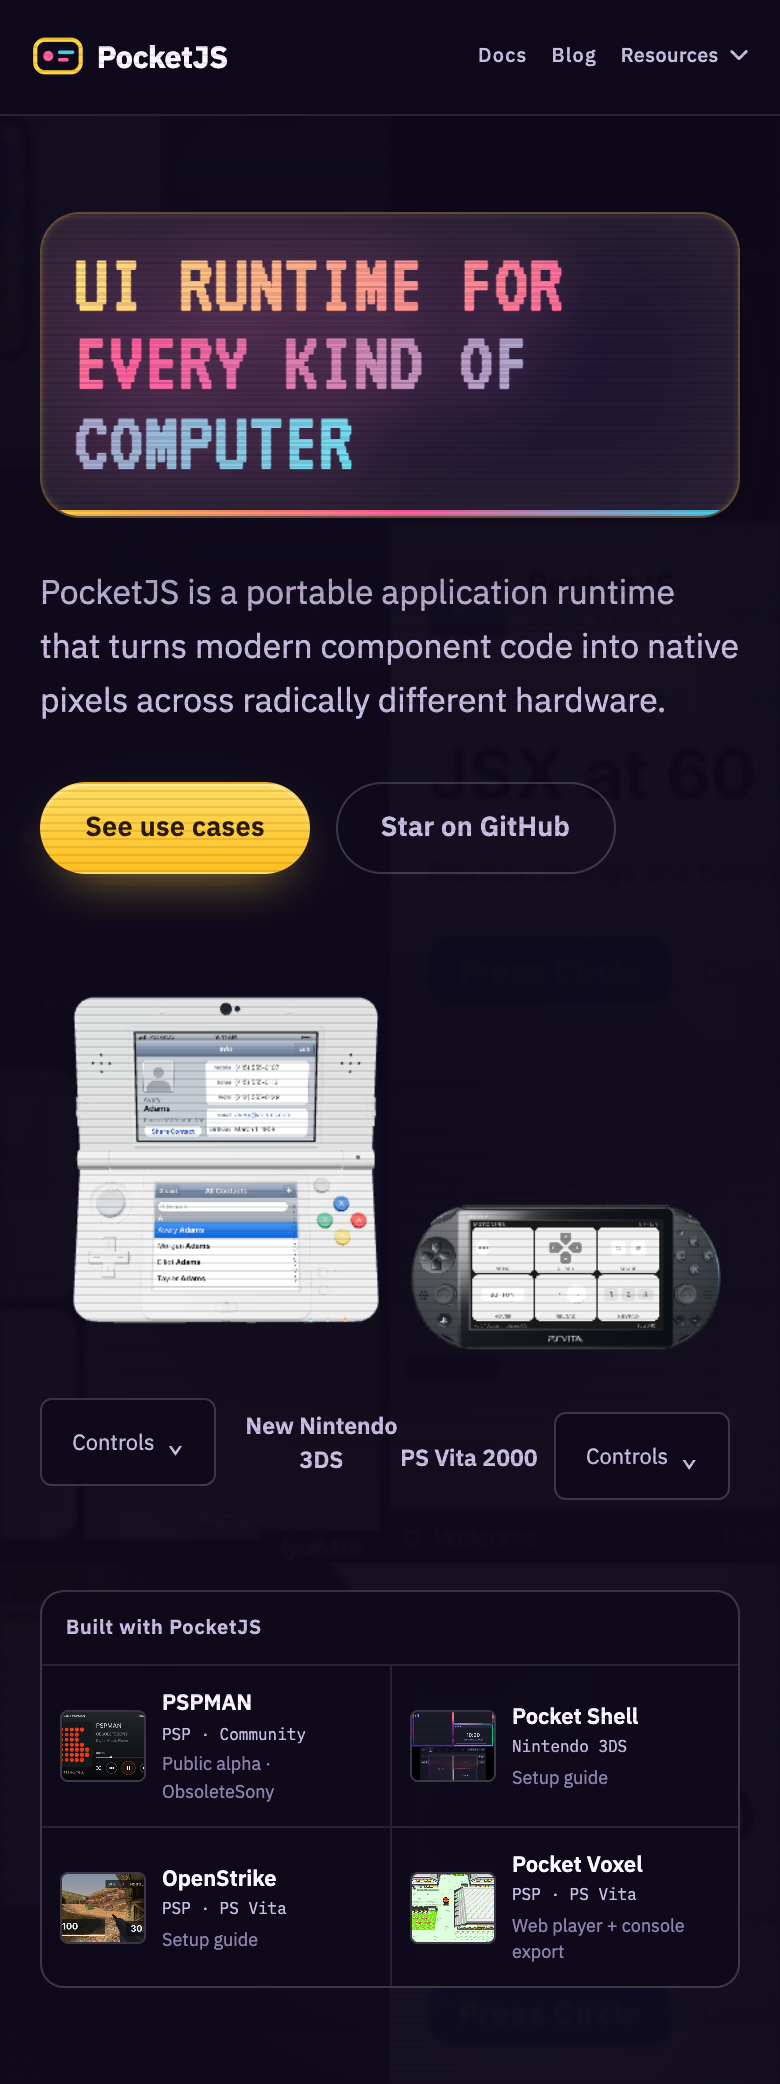
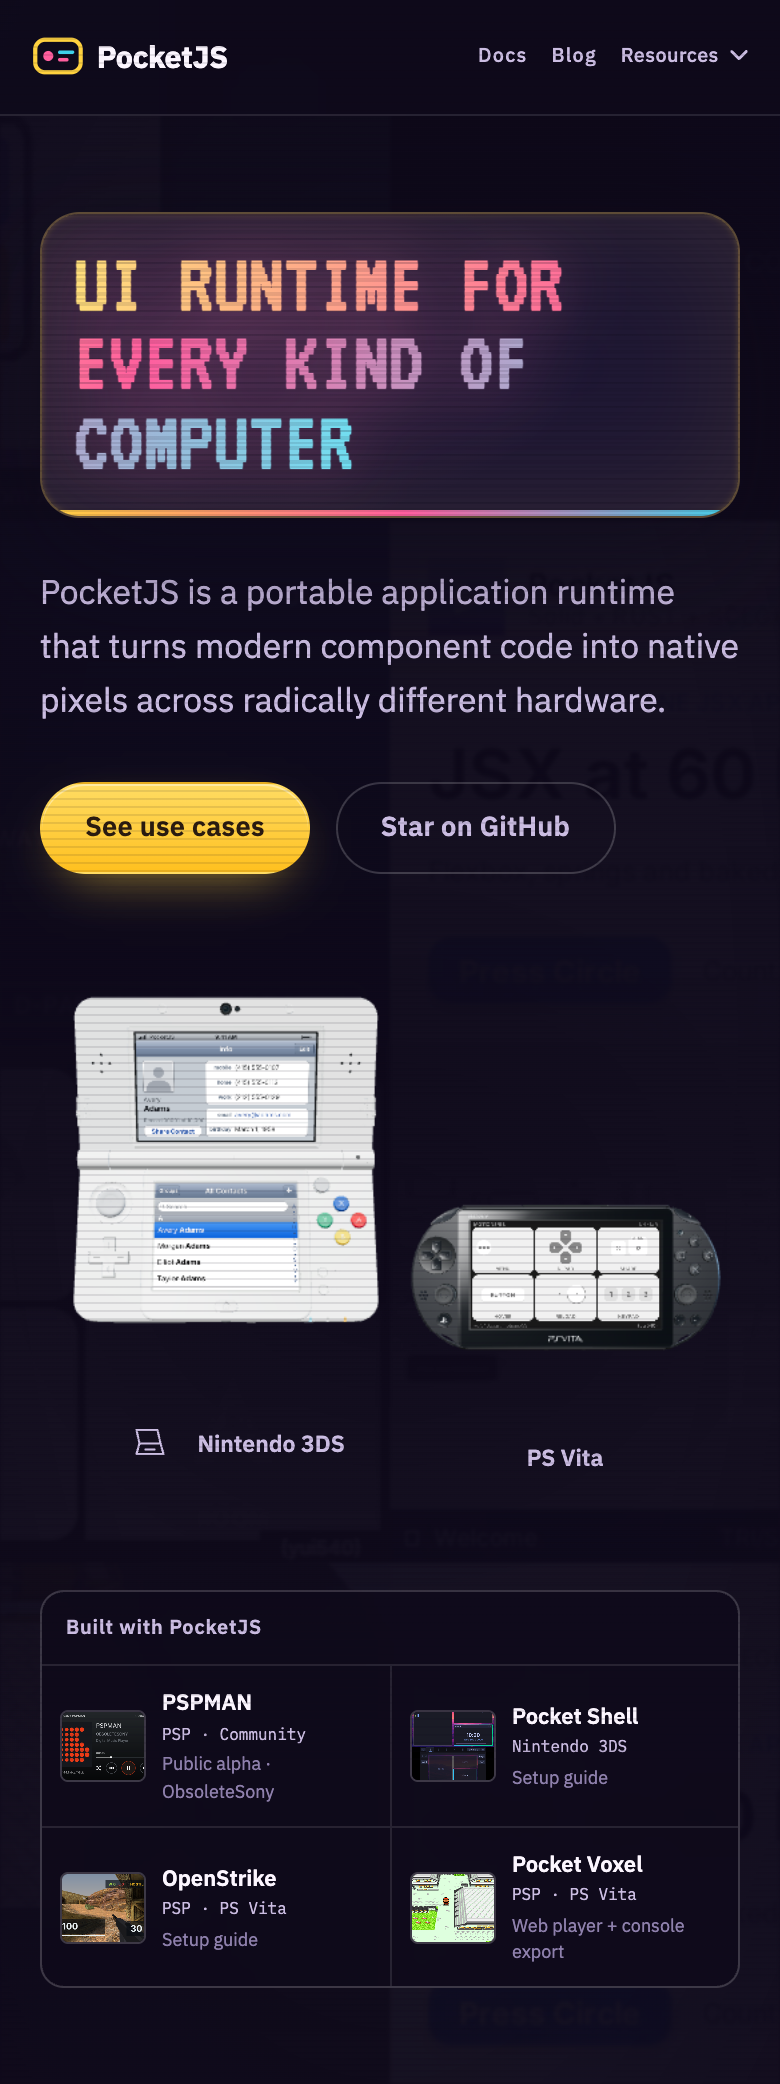
fix(site): simplify handheld interactions and labels

Changed region(s): [[0.2462, 0.655, 0.4923, 0.7174], [0.5231, 0.6862, 0.8308, 0.7174], [0.0923, 0.6862, 0.2154, 0.7174]]

diff --git a/site/assets/landing.css b/site/assets/landing.css
@@ -458,12 +458,6 @@
 .handheld-stage h3{font-size:1.1rem;margin:0 0 .5rem}
 .handheld-stage figcaption p{color:var(--ink-2);font-size:.85rem;line-height:1.65;max-width:34em;min-height:3.3em}
 .handheld-stage .pg-stage__viewport{height:420px;aspect-ratio:auto}
-.handheld-controls{display:flex;align-items:center;justify-content:center;gap:.45rem;flex-wrap:wrap;margin-top:.7rem}
-.handheld-controls button{font:inherit;font-size:.72rem;background:transparent;color:var(--ink-2);border:1px solid var(--line);border-radius:5px;padding:.4rem .65rem;cursor:pointer}
-.handheld-controls button:hover,.handheld-controls button:focus-visible{color:var(--ink);border-color:var(--ink-2)}
-.handheld-controls label{display:flex;gap:.4rem;align-items:center;font-size:.7rem;color:var(--ink-2)}
-.handheld-controls input{width:85px;accent-color:var(--ink-2)}
-.handheld-stage:not(.is-ready) .handheld-controls{visibility:hidden}
 @media(max-width:760px){.handheld-grid{grid-template-columns:1fr;gap:2.5rem}.handheld-stage .pg-stage__viewport{height:380px}}
 .spon-cta{margin-top:1.4rem;display:inline-flex;gap:.5rem;align-items:center}
 
@@ -475,26 +469,18 @@
 .hero-handhelds::before{content:"";position:absolute;inset:-2rem;z-index:-1;background:radial-gradient(ellipse,rgba(var(--shade-rgb),.5),transparent 72%);pointer-events:none}
 .hero-handhelds .handheld-stage{position:absolute;margin:0;padding:0;border:0;background:transparent;pointer-events:none}
 .hero-handhelds .pg-stage__canvas{pointer-events:auto}
-/* The Vita's transparent canvas must not intercept the 3DS menu trigger. */
+/* Keep the lid toggle above the Vita's transparent canvas. */
 .hero-handhelds .handheld-stage:first-child{width:66%;height:270px;left:-2%;top:-8px;z-index:2}
 .hero-handhelds .handheld-stage:last-child{width:78%;height:200px;right:-4%;bottom:0;z-index:1}
 .hero-handhelds .handheld-stage .pg-stage__viewport{height:calc(100% - 40px);overflow:visible}
 .hero-handhelds figcaption{position:absolute;left:0;right:0;bottom:-4px;display:flex;align-items:center;justify-content:center;gap:.5rem;min-height:44px;text-align:center;pointer-events:none}
 .hero-handhelds .handheld-stage h3{font:600 .72rem/1.5 var(--sans);margin:0;color:var(--ink-2);min-width:0}
 .hero-handhelds .stage-hint{display:none}
-.hero-device-tools{pointer-events:auto;flex:none;font:.68rem/1.5 var(--sans);color:var(--ink-2)}
-/* The left side of the 3DS caption leaves the Vita shoulder accessible. */
-.hero-handhelds .handheld-stage:first-child .hero-device-tools{order:-1}
-.hero-device-tools summary{cursor:pointer;display:flex;align-items:center;justify-content:center;gap:.4rem;min-height:44px;min-width:88px;padding:0 .65rem;list-style:none;border:1px solid var(--line-2);border-radius:6px;background:rgba(var(--shade-rgb),.85)}
-.hero-device-tools summary::-webkit-details-marker{display:none}
-.hero-device-tools summary::after{content:"⌄";font-size:.85rem}
-.hero-device-tools[open] summary::after{content:"⌃"}
-.hero-device-tools summary:hover,.hero-device-tools summary:focus-visible{color:var(--ink);border-color:var(--accent);outline-color:var(--accent)}
-.hero-handhelds .handheld-controls{position:absolute;z-index:4;left:0;bottom:calc(100% + .4rem);width:max-content;max-width:310px;padding:.45rem .55rem;margin:0;background:rgba(var(--shade-rgb),.98);border:1px solid var(--line);border-radius:8px}
-.hero-handhelds .handheld-stage:last-child .handheld-controls{left:auto;right:0}
-.hero-handhelds .handheld-controls button{min-height:44px;min-width:44px}
-.hero-handhelds .handheld-controls input{height:44px}
-.hero-handhelds .handheld-stage:has(.hero-device-tools[open]){z-index:3}
+.hero-lid-toggle{pointer-events:auto;flex:none;display:grid;place-items:center;width:44px;height:44px;margin-right:-.4rem;padding:0;border:0;background:transparent;color:var(--ink-2);cursor:pointer}
+.hero-lid-toggle:hover,.hero-lid-toggle:focus-visible{color:var(--ink)}
+.hero-lid-toggle:focus-visible{outline:1px solid var(--accent);outline-offset:-6px;border-radius:8px}
+.hero-lid-toggle:disabled{visibility:hidden}
+.hero-lid-toggle[aria-expanded="false"] .hero-lid-toggle__lid{transform:translateY(9px) scaleY(.3);transform-origin:0 0}
 .hero-handhelds .pg-stage__status{font-size:.65rem;text-align:center;max-width:100%}
 [data-hero-layout="duet"] .hero-handhelds .handheld-stage:first-child{width:54%;height:360px;left:-2%;top:32px}
 [data-hero-layout="duet"] .hero-handhelds .handheld-stage:last-child{width:57%;height:215px;right:-6%;bottom:55px}
@@ -523,5 +509,4 @@
   [data-hero-layout="stack"] .hero-handhelds{height:350px}
   [data-hero-layout="stack"] .hero-handhelds .handheld-stage:first-child{width:63%;height:195px;left:18%;top:-6px}
   [data-hero-layout="stack"] .hero-handhelds .handheld-stage:last-child{width:74%;height:165px;right:7%;bottom:-4px}
-  .hero-handhelds .handheld-controls{max-width:235px}
 }

diff --git a/site/home.html b/site/home.html
@@ -53,29 +53,28 @@
         <a class="btn btn--sec" href="https://github.com/pocket-stack/pocketjs">Star on GitHub</a>
       </div>
     </div>
-    <div class="handheld-grid hero-handhelds" aria-label="Try PocketJS on New Nintendo 3DS and PS Vita">
-      <figure class="pg-stage motion-stage handheld-stage" data-pocket-stage data-handheld="new-nintendo-3ds">
-        <figcaption><h3>New Nintendo 3DS</h3><details class="hero-device-tools"><summary aria-label="New Nintendo 3DS controls">Controls</summary><div class="handheld-controls">
-          <button type="button" data-device-view="front">Front</button><button type="button" data-device-view="rear">Back</button><button type="button" data-device-view="detail">Angle</button>
-          <button type="button" data-lid-toggle aria-expanded="true">Close lid</button>
-          <label>Hinge <input type="range" min="0" max="175" value="155" data-lid-angle aria-label="Lid opening angle in degrees"></label>
-        </div></details></figcaption>
-        <div class="pg-stage__viewport" data-stage-viewport role="group" aria-label="Interactive white New Nintendo 3DS standard model with dual-screen Contacts demo">
+    <div class="handheld-grid hero-handhelds" aria-label="Try PocketJS on Nintendo 3DS and PS Vita">
+      <figure class="pg-stage motion-stage handheld-stage" data-pocket-stage data-handheld="new-nintendo-3ds" data-device-label="Nintendo 3DS">
+        <figcaption>
+          <button class="hero-lid-toggle" type="button" data-lid-toggle aria-expanded="true" aria-label="Close Nintendo 3DS" title="Close Nintendo 3DS" disabled>
+            <svg width="18" height="18" viewBox="0 0 24 24" fill="none" stroke="currentColor" stroke-width="1.4" stroke-linecap="round" stroke-linejoin="round" aria-hidden="true"><path class="hero-lid-toggle__lid" d="M5 13 3 4h14l2 9"/><path d="M5 13h14l2 7H3l2-7Z"/><path d="M9 17h6"/></svg>
+          </button>
+          <h3>Nintendo 3DS</h3>
+        </figcaption>
+        <div class="pg-stage__viewport" data-stage-viewport role="group" aria-label="Interactive Nintendo 3DS with dual-screen Contacts demo">
           <canvas class="pg-stage__canvas" data-stage-canvas aria-hidden="true"></canvas>
           <canvas class="pg-stage__screen" data-stage-screen width="400" height="240" aria-label="Contact details"></canvas>
           <canvas class="pg-stage__screen" data-stage-auxiliary width="320" height="240" aria-label="Contacts list"></canvas>
-          <div class="pg-stage__status" data-stage-status role="status">Loading New Nintendo 3DS</div>
+          <div class="pg-stage__status" data-stage-status role="status">Loading Nintendo 3DS</div>
         </div>
         <p class="stage-hint">Drag the shell to rotate. Drag the lower screen to scroll, or use the arrow keys.</p>
       </figure>
-      <figure class="pg-stage motion-stage handheld-stage" data-pocket-stage data-handheld="ps-vita-2000">
-        <figcaption><h3>PS Vita 2000</h3><details class="hero-device-tools"><summary aria-label="PS Vita 2000 controls">Controls</summary><div class="handheld-controls">
-          <button type="button" data-device-view="front">Front</button><button type="button" data-device-view="rear">Back</button><button type="button" data-device-view="detail">Angle</button>
-        </div></details></figcaption>
-        <div class="pg-stage__viewport" data-stage-viewport role="group" aria-label="Interactive black PlayStation Vita PCH-2000 running PocketJS motion studies">
+      <figure class="pg-stage motion-stage handheld-stage" data-pocket-stage data-handheld="ps-vita-2000" data-device-label="PS Vita">
+        <figcaption><h3>PS Vita</h3></figcaption>
+        <div class="pg-stage__viewport" data-stage-viewport role="group" aria-label="Interactive PS Vita running PocketJS motion studies">
           <canvas class="pg-stage__canvas" data-stage-canvas aria-hidden="true"></canvas>
           <canvas class="pg-stage__screen" data-stage-screen width="960" height="544" aria-label="PocketJS motion studies"></canvas>
-          <div class="pg-stage__status" data-stage-status role="status">Loading PlayStation Vita 2000</div>
+          <div class="pg-stage__status" data-stage-status role="status">Loading PS Vita</div>
         </div>
         <p class="stage-hint">Drag to inspect the shell, rear touch pad, cameras and ports.</p>
       </figure>

diff --git a/site/verify-hero-layouts.ts b/site/verify-hero-layouts.ts
@@ -24,18 +24,26 @@ const probe = `(async () => {
       if (hit!==element && !element.contains(hit)) throw Error('Control target is covered: '+element.textContent);
     }
   }
-  for (const root of roots) {
+  for (const [index,root] of roots.entries()) {
     const canvas = root.querySelector('[data-stage-canvas]'), rect=canvas.getBoundingClientRect();
     if (rect.left<0 || rect.right>document.documentElement.clientWidth+1) throw Error('Device viewport extends outside page');
     if (root.querySelector('figcaption>span')) throw Error('Remove the demo subtitle below the model');
-    const details=root.querySelector('.hero-device-tools');
-    reachable(details.querySelector('summary'));
-    details.querySelector('summary').click();
-    if (!details.open || getComputedStyle(details.querySelector('.handheld-controls')).visibility==='hidden') throw Error('Device controls did not open');
-    for (const button of details.querySelectorAll('button')) reachable(button);
-    reachable(details.querySelector('summary'));
-    details.querySelector('summary').click();
+    const name=['Nintendo 3DS','PS Vita'][index];
+    if (root.querySelector('h3').textContent!==name || canvas.getAttribute('aria-label')!==name) throw Error('Use the short device name');
+    if (root.querySelector('details,summary,input,[data-device-view]')) throw Error('Remove the device control menus');
   }
+  const toggle=roots[0].querySelector('[data-lid-toggle]');
+  reachable(toggle);
+  const waitForLid=async angle=>{
+    for (let i=0; i<100 && roots[0].dataset.lidAngle!==angle; i++) await sleep(50);
+    if (roots[0].dataset.lidAngle!==angle) throw Error('Lid did not reach '+angle+' degrees');
+  };
+  toggle.click();
+  await waitForLid('0');
+  if (toggle.getAttribute('aria-label')!=='Open Nintendo 3DS') throw Error('Lid toggle did not update its label');
+  toggle.click();
+  await waitForLid('155');
+  if (toggle.getAttribute('aria-label')!=='Close Nintendo 3DS') throw Error('Lid toggle did not restore its label');
   document.querySelector('.hero .pe-entry').click();
   if (!document.querySelector('#try-pspman').open) throw Error('First case must open PSPMAN');
   document.querySelector('#try-pspman').close();

diff --git a/site/assets/handheld-stages.js b/site/assets/handheld-stages.js
@@ -53,7 +53,7 @@ class HandheldHost {
     const canvas = this.root.querySelector("[data-stage-canvas]");
     canvas.tabIndex = 0;
     canvas.setAttribute("aria-hidden", "false");
-    canvas.setAttribute("aria-label", this.profile.name + " controls");
+    canvas.setAttribute("aria-label", this.root.dataset.deviceLabel);
     canvas.addEventListener("keydown", (event) => {
       const bit = KEYS[event.code];
       if (bit) { event.preventDefault(); this.press(bit, true); }
@@ -147,22 +147,16 @@ async function boot(root) {
     host.onBlit = stage.refreshScreen;
     stage.refreshScreen();
     if (root.closest(".hero") && document.documentElement.dataset.heroLayout !== "duet") stage.setView("detail");
-    for (const button of root.querySelectorAll("[data-device-view]")) {
-      button.addEventListener("click", () => stage.setView(button.dataset.deviceView));
-    }
-    const slider = root.querySelector("[data-lid-angle]");
     const toggle = root.querySelector("[data-lid-toggle]");
-    if (slider && toggle) {
-      slider.addEventListener("input", () => {
-        stage.setLidAngle(Number(slider.value), false);
-        toggle.textContent = Number(slider.value) < 60 ? "Open lid" : "Close lid";
-        toggle.setAttribute("aria-expanded", String(Number(slider.value) >= 60));
-      });
+    if (toggle) {
+      let open = true;
+      toggle.disabled = false;
       toggle.addEventListener("click", () => {
-        const open = Number(slider.value) < 60;
-        slider.value = open ? "155" : "0";
-        stage.setLidAngle(Number(slider.value));
-        toggle.textContent = open ? "Close lid" : "Open lid";
+        open = !open;
+        stage.setLidAngle(open ? profile.hinge.default_angle_degrees : 0);
+        const label = `${open ? "Close" : "Open"} ${root.dataset.deviceLabel}`;
+        toggle.setAttribute("aria-label", label);
+        toggle.title = label;
         toggle.setAttribute("aria-expanded", String(open));
       });
     }

diff --git a/site/verify-handhelds.ts b/site/verify-handhelds.ts
@@ -9,9 +9,7 @@ const probe = `(async () => {
   document.querySelector('.handheld-grid').scrollIntoView({block:'center',behavior:'instant'});
   for(let i=0;i<180 && roots.some(r=>r.dataset.ready!=='true');i++) await sleep(100);
   if(roots.some(r=>r.dataset.ready!=='true')) throw Error('Handheld startup failed: '+roots.map(r=>r.querySelector('[data-stage-status]').textContent).join('; '));
-  // Hero variants start at different camera angles. Input projections below
-  // use each profile's front camera, also available through the page controls.
-  roots.forEach(root=>root.querySelector('[data-device-view="front"]').click());
+  // Let the initial hero camera settle before projecting input points.
   await sleep(900);
   const receipt = id => globalThis['__'+id.replaceAll('-','_')+'Receipt']();
   const waitFor = async (condition) => { for(let i=0;i<100;i++){if(condition()) return; await sleep(50);} };
@@ -23,7 +21,9 @@ const probe = `(async () => {
   const profiles=await Promise.all(roots.map(r=>fetch('/stage/'+r.dataset.handheld+'/profile.json').then(x=>x.json())));
   function project(root,p,world) {
     const c=root.querySelector('[data-stage-canvas]'),r=c.getBoundingClientRect();
-    const eye=p.view.desk_position_mm,target=p.view.desk_target_mm;
+    const target=p.view.desk_target_mm, distance=p.view.distance_mm;
+    const eye=root.closest('.hero') && document.documentElement.dataset.heroLayout!=='duet'
+      ? target.map((v,i)=>v+[distance*.35,-distance*.4,distance*.8][i]) : p.view.desk_position_mm;
     const unit=v=>{const n=Math.hypot(...v);return v.map(x=>x/n)};
     const cross=(a,b)=>[a[1]*b[2]-a[2]*b[1],a[2]*b[0]-a[0]*b[2],a[0]*b[1]-a[1]*b[0]];
     const dot=(a,b)=>a.reduce((n,v,i)=>n+v*b[i],0);

diff --git a/site/hero-layouts.html b/site/hero-layouts.html
@@ -19,7 +19,7 @@
 <article data-layout="duet"><div class="copy"><h2><span class="letter">B</span>左右并排</h2><p>两台机器以正面并排呈现。屏幕和操作区域无遮挡，两个 demo 更容易辨认。</p><div class="links"><a href="/?hero=duet" target="_blank" rel="noopener">打开可操作页面 ↗</a><a data-full href="/assets/hero-layouts/duet-desktop.png" target="_blank">查看大图</a></div></div><a class="shot" href="/assets/hero-layouts/duet-desktop.png" target="_blank"><img src="/assets/hero-layouts/duet-desktop.png" alt="B：3DS 和 Vita 左右并排摆放的首屏"></a></article>
 <article data-layout="stack"><div class="copy"><h2><span class="letter">C</span>上下陈列</h2><p>两台机器沿右侧上下排列。3DS 缩小一些，Vita 横向展开，标题周围留白更多。</p><div class="links"><a href="/?hero=stack" target="_blank" rel="noopener">打开可操作页面 ↗</a><a data-full href="/assets/hero-layouts/stack-desktop.png" target="_blank">查看大图</a></div></div><a class="shot" href="/assets/hero-layouts/stack-desktop.png" target="_blank"><img src="/assets/hero-layouts/stack-desktop.png" alt="C：3DS 和 Vita 上下陈列的首屏"></a></article>
 </div>
-<p class="hint">三版均保留 3DS 开闭、通讯录双屏操作和 Vita 动效。点击机器旁的 Controls，可展开视角与开闭控制。</p>
+<p class="hint">三版均保留 3DS 开闭、通讯录双屏操作和 Vita 动效。拖动机身旋转，点击 Nintendo 3DS 名称旁的开合图标即可开闭屏幕。</p>
 </main>
 <script>
 for(const button of document.querySelectorAll('[data-size]')) button.addEventListener('click',()=>{

diff --git a/tools/handheld-models/README.md b/tools/handheld-models/README.md
@@ -50,8 +50,9 @@ and mobile screenshots and links to their live pages:
 - `/?hero=duet`: front views side by side.
 - `/?hero=stack`: angled devices arranged above and below each other.
 
-The default preview is `cascade`. Each device's **Controls** menu contains the
-front, rear and angled views; the 3DS menu also contains the lid controls.
+The default preview is `cascade`. The captions read **Nintendo 3DS** and
+**PS Vita**. Drag the shell to rotate either device; the borderless clamshell
+icon beside Nintendo 3DS toggles its lid between closed and 155° open.
 The heading, CTA row and case strip use the same structure in all three layouts.
 
 The homepage loads the device packages as they approach the viewport. Each new
